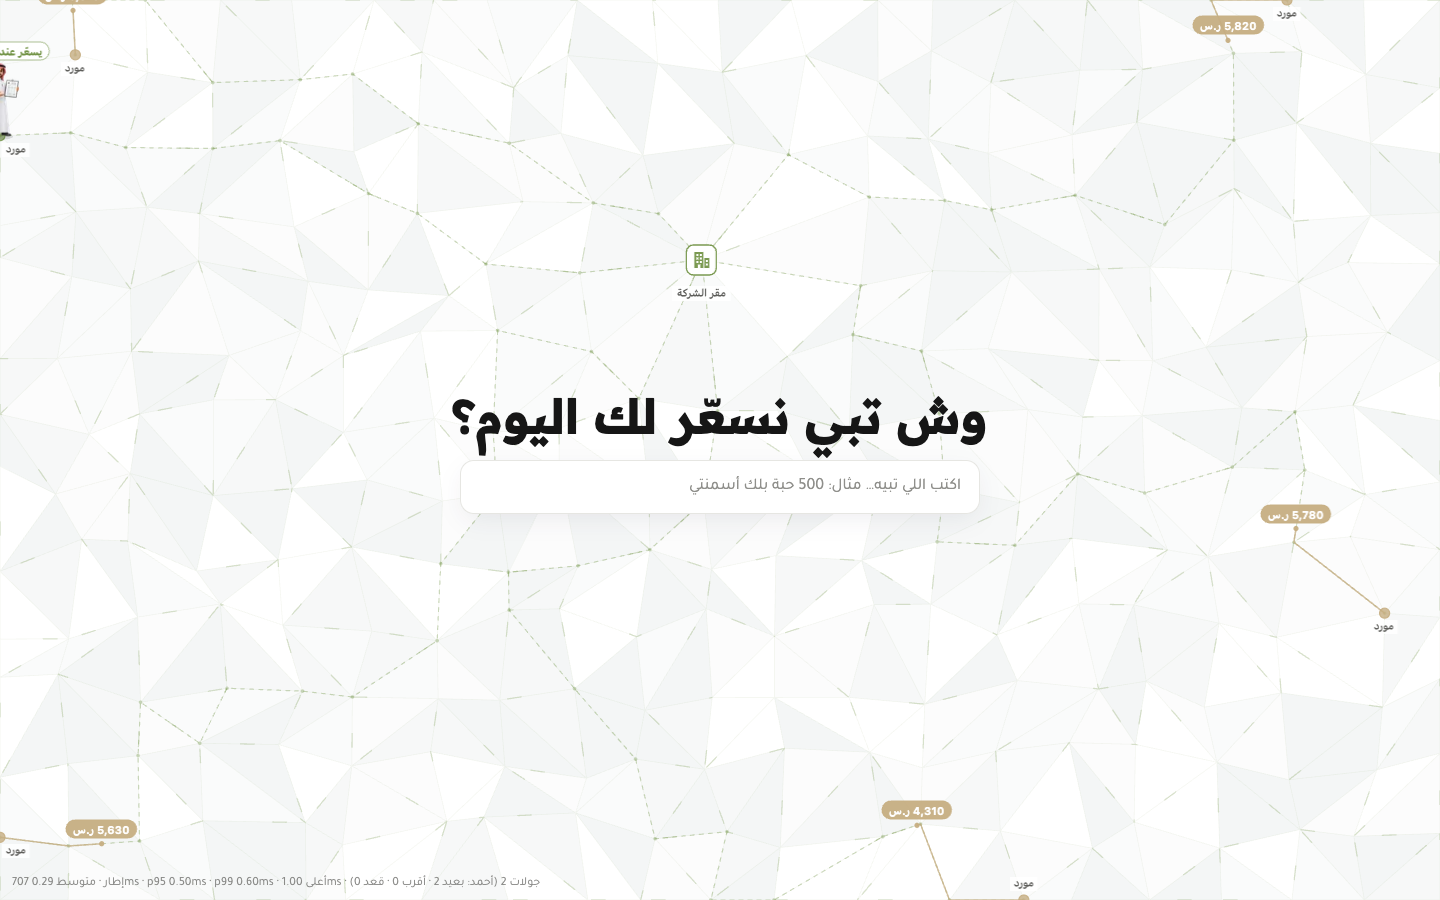
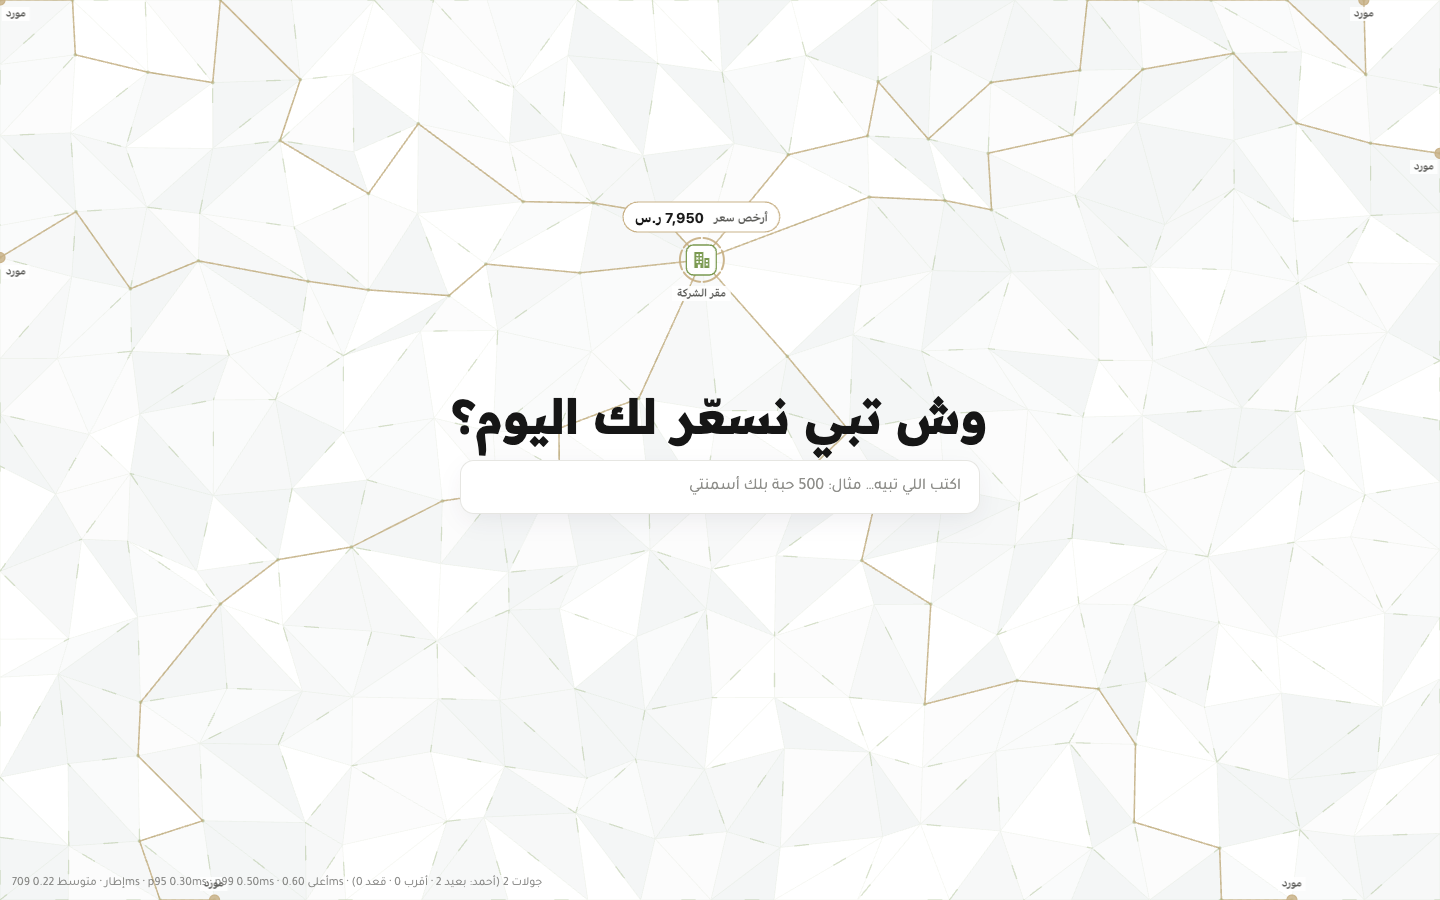
live-bg: one layer on every background — same olive→champagne pair, chips, Ahmad and sizes on light/deep/accent (only base + facets follow data-tone); one component, no tone prop; rounds on a shared wall clock (round k = ⌊t/24s⌋, seeded from k, fixed timeline) so a page change continues the same rou

diff --git a/src/live-bg/engine.ts b/src/live-bg/engine.ts
@@ -21,8 +21,8 @@ type Walker = {
   k: number; ch: number; runner: boolean; rest: boolean; target: number; path: number[]; cum: number[]; len: number
   far0: number; ang: number; start: number; arrive: number; tc: number; home: number; done: number; price: number; prof: Prof
 }
-type Plan = { walkers: Walker[]; mode: 'far' | 'near' | 'none'; rerolls: number; gen: number }
-type Round = { walkers: Walker[]; allHome: number; best: number; end: number }
+type Plan = { walkers: Walker[]; mode: 'far' | 'near' | 'none'; rerolls: number; gen: number; k: number }
+type Round = { walkers: Walker[]; allHome: number; best: number; end: number; k: number }
 
 const FONT = 'Tajawal, "Readex Pro", system-ui, sans-serif'
 const FONT_NUM = '"Readex Pro", Tajawal, system-ui, sans-serif'
@@ -79,7 +79,15 @@ function heapPop(h: Array<[number, number]>) {
   if (h.length) { h[0] = last; let i = 0; for (;;) { const l = 2 * i + 1, r = l + 1; let m = i; if (l < h.length && h[l][0] < h[m][0]) m = l; if (r < h.length && h[r][0] < h[m][0]) m = r; if (m === i) break; [h[m], h[i]] = [h[i], h[m]]; i = m } }
   return top
 }
-const shuffle = <T,>(a: T[]) => { for (let i = a.length - 1; i > 0; i--) { const j = (Math.random() * (i + 1)) | 0; [a[i], a[j]] = [a[j], a[i]] } return a }
+// Rounds are seeded from the shared clock (round number), so every screen plays the same round: `rand` is
+// re-pointed to a seeded generator while a round is planned.
+let rand: () => number = Math.random
+const shuffle = <T,>(a: T[], r: () => number = rand) => { for (let i = a.length - 1; i > 0; i--) { const j = (r() * (i + 1)) | 0; [a[i], a[j]] = [a[j], a[i]] } return a }
+/** One shared clock for every page and tab: wall time in seconds. A round is ROUND seconds; round k starts at k·ROUND. */
+export const ROUND = 24
+const ALL_HOME = 20.6 // every request (and Ahmad) is back by then; «أرخص سعر» shows until the next round
+const wall = () => (performance.timeOrigin + performance.now()) / 1000
+const seedOf = (k: number, salt: number) => (Math.imul(k | 0, 0x9e3779b1) ^ Math.imul(salt + 1, 0x85ebca6b)) | 0
 const fmt = (n: number) => n.toLocaleString('en-US') + ' ر.س'
 
 // ---------- page elements the network must keep clear of ----------
@@ -113,7 +121,7 @@ export function readObstacles(host: HTMLElement, scope: Element = document.body)
   return { boxes, title }
 }
 
-export type EngineOpts = { tone: Tone; reduced: boolean; /** where to look for page elements (default: the whole page) */ scope?: Element }
+export type EngineOpts = { reduced: boolean; /** where to look for page elements (default: the whole page) */ scope?: Element }
 export type FrameStats = { frames: number; avg: number; p95: number; p99: number; max: number; rounds: number; far: number; near: number; none: number; sync: number }
 
 export class LiveEngine {
@@ -123,7 +131,6 @@ export class LiveEngine {
   private V: Vert[] = []; private E: Edge[] = []; private adj: number[][] = []
   private FLOW: Array<{ sp: number; ph: number; rev: boolean }> = []
   private HUB = 0; private S!: Round; private S_client = 0
-  private LAST: Record<number, number> = {}
   private boxes: Box[] = []; private title: Box | null = null
   private go: RGB = [0, 0, 0]; private back: RGB = [0, 0, 0]; private base: RGB = [255, 255, 255]; private meshLine: RGB = [0, 0, 0]
   private surface: RGB = [255, 255, 255]; private ink: RGB = [0, 0, 0]; private ink2: RGB = [0, 0, 0]
@@ -183,7 +190,7 @@ export class LiveEngine {
     this.build()
     this.gen++; this.next = null
     this.chips.clear() // colours / DPR may have changed
-    if (!this.opts.reduced) { const p = this.planRound(); this.prerender(p.walkers); this.commit(p, this.simT); this.schedulePlan() }
+    if (!this.opts.reduced) { this.S = undefined as unknown as Round; this.simT = wall(); this.sync(this.simT, false) }
     this.run()
   }
 
@@ -249,7 +256,8 @@ export class LiveEngine {
     }
     this.E = E
     this.adj = V.map(() => []); E.forEach((e, i) => { this.adj[e.a].push(i); this.adj[e.b].push(i) })
-    this.FLOW = E.map((e) => ({ sp: 14 + Math.random() * 22, ph: Math.random() * (e.L + 60), rev: Math.random() < 0.5 }))
+    const fr = mulberry(29) // ambient pulse seeded like the mesh: the same on every page of the same size
+    this.FLOW = E.map((e) => ({ sp: 14 + fr() * 22, ph: fr() * (e.L + 60), rev: fr() < 0.5 }))
     // static layer: facets + the faint mesh, once
     const b = this.bctx
     const shades = FACETS.map((v) => rgba(readColor(this.host, v), 1))
@@ -268,7 +276,7 @@ export class LiveEngine {
     d[from] = 0; heapPush(h, [0, from])
     while (h.length) {
       const [x, u] = heapPop(h); if (x > d[u]) continue; if (u === to) break
-      for (const ei of adj[u]) { const e = E[ei], v = e.a === u ? e.b : e.a; if (v !== to && blocked(v)) continue; const nx = x + e.L * (0.3 + Math.random() * 2.7); if (nx < d[v]) { d[v] = nx; pv[v] = u; heapPush(h, [nx, v]) } }
+      for (const ei of adj[u]) { const e = E[ei], v = e.a === u ? e.b : e.a; if (v !== to && blocked(v)) continue; const nx = x + e.L * (0.3 + rand() * 2.7); if (nx < d[v]) { d[v] = nx; pv[v] = u; heapPush(h, [nx, v]) } }
     }
     if (!isFinite(d[to])) return null
     const path: number[] = []; let v = to; while (v !== from) { path.unshift(v); v = pv[v] } return path
@@ -282,23 +290,27 @@ export class LiveEngine {
    *              farthest point in its direction (and still never touching another request's path)
    *   3. none  — last resort: he sits the round out (counted in stats)
    */
-  private planRound(): Plan {
-    const rolls: Walker[][] = []
-    for (let i = 0; i < 8; i++) {
-      const ws = this.routes(); rolls.push(ws)
-      const r = this.pickFar(ws); if (r) return this.finish(ws, r, 'far', i)
-    }
-    for (const ws of rolls) { const r = this.pickNear(ws) || this.pickRoute(ws); if (r) return this.finish(ws, r, 'near', 8) }
-    return this.finish(rolls[rolls.length - 1], null, 'none', 8)
+  private planRound(k: number): Plan {
+    try {
+      const rolls: Walker[][] = []
+      for (let i = 0; i < 8; i++) {
+        rand = mulberry(seedOf(k, i)) // geometry: the same roll on the same layout is always the same
+        const ws = this.routes(); rolls.push(ws)
+        const r = this.pickFar(ws); if (r) return this.finish(ws, r, 'far', i, k)
+      }
+      rand = mulberry(seedOf(k, 99))
+      for (const ws of rolls) { const r = this.pickNear(ws) || this.pickRoute(ws); if (r) return this.finish(ws, r, 'near', 8, k) }
+      return this.finish(rolls[rolls.length - 1], null, 'none', 8, k)
+    } finally { rand = Math.random }
   }
 
   /** Six non-crossing paths from the head office, one per direction, each to the farthest reachable point. */
   private routes(): Walker[] {
     const { V, E, adj } = this
     const S_client = this.HUB
-    const base = 3000 + Math.random() * 9000, C = V[S_client]
+    const base = 3000 + rand() * 9000, C = V[S_client]
     const NB = (ei: number) => { const e = E[ei]; return e.a === S_client ? e.b : e.a }, ANG = (ei: number) => Math.atan2(V[NB(ei)].y - C.y, V[NB(ei)].x - C.x)
-    const all = [...adj[S_client]].sort((a, b) => ANG(a) - ANG(b)), M = Math.min(6, all.length), rot = Math.random()
+    const all = [...adj[S_client]].sort((a, b) => ANG(a) - ANG(b)), M = Math.min(6, all.length), rot = rand()
     const out = [...new Set(Array.from({ length: M }, (_, k) => all[Math.floor(((k + rot) * all.length) / M) % all.length]))], sec = Math.PI / out.length
     const owner = new Int16Array(V.length).fill(-1); owner[S_client] = 999
     const walkers: Walker[] = []
@@ -310,14 +322,13 @@ export class LiveEngine {
       for (let i = 0; i < V.length; i++) { if (owner[i] >= 0) continue; const v = V[i], an = Math.atan2(v.y - C.y, v.x - C.x), da = Math.abs(Math.atan2(Math.sin(an - ang), Math.cos(an - ang))); if (da <= sec) cand.push([Math.hypot(v.x - C.x, v.y - C.y), i]) }
       cand.sort((x, y) => y[0] - x[0])
       let plan = [nb], target = nb
-      const far = cand.filter((c) => c[0] >= (cand[0]?.[0] ?? 0) * 0.82 && c[1] !== this.LAST[k])
+      const far = cand.filter((c) => c[0] >= (cand[0]?.[0] ?? 0) * 0.82)
       for (const [, i] of [...shuffle(far), ...cand].slice(0, 16)) { if (i === nb) continue; const r = this.routeV(nb, i, (v) => owner[v] >= 0); if (r) { plan = [nb, ...r]; target = i; break } }
-      this.LAST[k] = target
       plan.forEach((v) => (owner[v] = k))
       const path = [S_client, ...plan], cum = [0]
       for (let i = 1; i < path.length; i++) cum.push(cum[i - 1] + Math.hypot(V[path[i]].x - V[path[i - 1]].x, V[path[i]].y - V[path[i - 1]].y))
-      const start = Math.random() * 0.6, arrive = start + 8.5 + Math.random() * 1.2, tc = arrive + 0.8 + Math.random() * 0.6, home = tc + 5.5 + Math.random() * 0.8
-      walkers.push({ k, ch: k % CHANNELS.length, runner: false, rest: false, target, path, cum, len: cum[cum.length - 1], far0: cand[0]?.[0] ?? 0, ang, start, arrive, tc, home, done: home, price: Math.round((base * (0.82 + Math.random() * 0.36)) / 10) * 10, prof: NO_PROF })
+      const start = 0, arrive = 9, tc = 10, home = 16 // placeholders: finish() sets the round's timeline from the clock seed
+      walkers.push({ k, ch: k % CHANNELS.length, runner: false, rest: false, target, path, cum, len: cum[cum.length - 1], far0: cand[0]?.[0] ?? 0, ang, start, arrive, tc, home, done: home, price: Math.round((base * (0.82 + rand() * 0.36)) / 10) * 10, prof: NO_PROF })
     })
     return walkers
   }
@@ -331,7 +342,7 @@ export class LiveEngine {
   private pickFar(ws: Walker[]) {
     const boxes = this.runnerBoxes(), long = Math.min(this.W, this.H) * 0.35
     const ok = ws.filter((w) => w.len > long && this.V[w.target].y > 90 && this.blockedAt(w, boxes) === Infinity)
-    return ok.length ? ok[(Math.random() * ok.length) | 0] : null
+    return ok.length ? ok[(rand() * ok.length) | 0] : null
   }
   private pickNear(ws: Walker[]) {
     const boxes = this.runnerBoxes(), C = this.V[this.HUB], ok: Array<[Walker, number]> = []
@@ -345,8 +356,8 @@ export class LiveEngine {
       }
     }
     if (!ok.length) return null
-    const [w, i] = ok[(Math.random() * ok.length) | 0]
-    w.path = w.path.slice(0, i + 1); w.cum = w.cum.slice(0, i + 1); w.len = w.cum[i]; w.target = w.path[i]; this.LAST[w.k] = w.target
+    const [w, i] = ok[(rand() * ok.length) | 0]
+    w.path = w.path.slice(0, i + 1); w.cum = w.cum.slice(0, i + 1); w.len = w.cum[i]; w.target = w.path[i]
     return w
   }
   /** A dedicated route for Ahmad in one walker's direction that steers around every element (vertex-disjoint from the others). */
@@ -377,30 +388,49 @@ export class LiveEngine {
         for (let j = 1; j < path.length; j++) cum.push(cum[j - 1] + Math.hypot(V[path[j]].x - V[path[j - 1]].x, V[path[j]].y - V[path[j - 1]].y))
         const t: Walker = { ...w, path, cum, len: cum[cum.length - 1], target: i }
         if (this.blockedAt(t, boxes) !== Infinity) continue // an edge between two clear points can still clip a corner
-        Object.assign(w, { path, cum, len: t.len, target: i }); this.LAST[w.k] = i
+        Object.assign(w, { path, cum, len: t.len, target: i })
         return w
       }
       }
     }
     return null
   }
-  private finish(walkers: Walker[], r: Walker | null, mode: Plan['mode'], rerolls: number): Plan {
+  private finish(walkers: Walker[], r: Walker | null, mode: Plan['mode'], rerolls: number, k: number): Plan {
+    // Everything the eye compares between screens comes from the round number alone: when each request leaves,
+    // arrives and returns, the prices (so «أرخص سعر» is the same), the channel order and Ahmad's timeline.
+    // Only the geometry (where the head office is, which way each path goes) follows each screen's layout.
+    const c = mulberry(seedOf(k, 1000)), base = 3000 + c() * 9000
+    walkers.forEach((w, i) => {
+      const s0 = c() * 0.6, a0 = c(), t0 = c(), h0 = c(), p0 = c()
+      w.start = s0; w.arrive = s0 + 8.5 + a0 * 1.2; w.tc = w.arrive + 0.8 + t0 * 0.6; w.home = w.tc + 5.5 + h0 * 0.8; w.done = w.home
+      w.price = Math.round((base * (0.82 + p0 * 0.36)) / 10) * 10; w.ch = i % CHANNELS.length
+    })
     if (r) {
-      r.runner = true; r.rest = r.len > Math.min(this.W, this.H) * 0.5
-      const run = Math.max(4.5, r.len / 92); r.arrive = r.start + run + (r.rest ? 2.7 : 0); r.tc = r.arrive + 1.1 + 1.8; r.home = r.tc + Math.max(4, r.len / 80); r.done = r.home + 1.5
+      // fixed timeline on every screen (speed follows the path length): run 9.5 s with a catch-breath half-way,
+      // 2.9 s at the supplier, 6 s back, 1.5 s next to the head office
+      r.runner = true; r.rest = true
+      r.arrive = r.start + 9.5; r.tc = r.arrive + 2.9; r.home = r.tc + 6; r.done = r.home + 1.5
     }
     // the other paths: one channel each, never repeated (a 6th path only when Ahmad sits out)
-    const order = shuffle(CHANNELS.map((_, i) => i)); let j = 0
+    const order = shuffle(CHANNELS.map((_, i) => i), c); let j = 0
     for (const w of walkers) if (!w.runner) w.ch = order[j++ % order.length]
-    return { walkers, mode, rerolls, gen: this.gen }
+    return { walkers, mode, rerolls, gen: this.gen, k }
   }
-  /** Start a planned round at time t (cheap: shifts times, builds Ahmad's speed profile). */
-  private commit(p: Plan, t: number) {
+  /** Start planned round k at its clock time k·ROUND (cheap: shifts times, builds Ahmad's speed profile). */
+  private commit(p: Plan) {
+    const t = p.k * ROUND
     for (const w of p.walkers) { w.start += t; w.arrive += t; w.tc += t; w.home += t; w.done += t; if (w.runner) this.profile(w) }
     this.counts.rounds++; this.counts[p.mode]++; this.counts.rerolls += p.rerolls
     this.S_client = this.HUB
-    const allHome = Math.max(...p.walkers.map((w) => w.done))
-    this.S = { walkers: p.walkers, allHome, best: Math.min(...p.walkers.map((w) => w.price)), end: allHome + 2.8 } // next round leaves right away
+    this.S = { walkers: p.walkers, allHome: t + ALL_HOME, best: Math.min(...p.walkers.map((w) => w.price)), end: t + ROUND, k: p.k }
+  }
+  /** Make the live round the one the shared clock is in (a page opened mid-round joins it where it is). */
+  private sync(t: number, inFrame: boolean) {
+    const k = Math.floor(t / ROUND)
+    if (this.S && this.S.k === k) return
+    let p = this.next; this.next = null
+    if (!p || p.gen !== this.gen || p.k !== k) { p = this.planRound(k); this.prerender(p.walkers); if (inFrame) this.counts.sync++ } // only if the idle plan did not run in time
+    this.commit(p); this.schedulePlan()
   }
   /**
    * Warm-up before the first animated frame (the first time a frame meets a new state — an image's GPU upload, a
@@ -445,15 +475,15 @@ export class LiveEngine {
   /** Plan the next round while this one plays: requestIdleCallback, setTimeout where it is missing. */
   private schedulePlan() {
     const gen = this.gen
-    const job = () => { if (this.alive && gen === this.gen && !this.next) { this.next = this.planRound(); this.prerender(this.next.walkers) } }
+    const k = (this.S?.k ?? Math.floor(wall() / ROUND)) + 1
+    const job = () => { if (this.alive && gen === this.gen && !this.next) { this.next = this.planRound(k); this.prerender(this.next.walkers) } }
     if ('requestIdleCallback' in window) window.requestIdleCallback(job, { timeout: 3000 })
     else setTimeout(job, 200)
   }
   /** Dev/QA: plan n rounds on the current layout and count how Ahmad was placed (does not touch the live round). */
   sampleRounds(n: number) {
-    const c = { far: 0, near: 0, none: 0, rerolls: 0 }, last = { ...this.LAST }
-    for (let i = 0; i < n; i++) { const p = this.planRound(); c[p.mode]++; c.rerolls += p.rerolls }
-    this.LAST = last
+    const c = { far: 0, near: 0, none: 0, rerolls: 0 }, k0 = Math.floor(wall() / ROUND)
+    for (let i = 0; i < n; i++) { const p = this.planRound(k0 + i); c[p.mode]++; c.rerolls += p.rerolls }
     return c
   }
 
@@ -697,13 +727,9 @@ export class LiveEngine {
 
   // ---------- clock: pauses with the page / off-screen; reduced motion = static mesh only ----------
   private loop = (now: number) => {
-    const dt = Math.min(0.05, (now - this.last) / 1000); this.last = now; this.simT += dt
+    this.last = now; this.simT = (performance.timeOrigin + now) / 1000 // the shared clock, not time since this page loaded
     const t0 = performance.now()
-    if (this.simT > this.S.end) {
-      let p = this.next; this.next = null
-      if (!p || p.gen !== this.gen) { p = this.planRound(); this.counts.sync++ } // only if the idle plan did not run in time
-      this.commit(p, this.simT); this.schedulePlan()
-    }
+    if (this.simT >= this.S.end) this.sync(this.simT, true)
     this.draw(this.simT)
     this.times[this.nTimes++ % this.times.length] = performance.now() - t0
     this.raf = requestAnimationFrame(this.loop)
@@ -712,6 +738,9 @@ export class LiveEngine {
     cancelAnimationFrame(this.raf); this.raf = 0
     if (!this.alive || this.opts.reduced) { this.ctx.clearRect(0, 0, this.W, this.H); return }
     if (!this.warmed) { this.warm(); return } // starts the loop when done
-    if (!document.hidden && this.onScreen) { this.last = performance.now(); this.raf = requestAnimationFrame(this.loop) }
+    if (!document.hidden && this.onScreen) {
+      this.simT = wall(); this.sync(this.simT, false) // back from a hidden tab: join the current round outside a frame
+      this.last = performance.now(); this.raf = requestAnimationFrame(this.loop)
+    }
   }
 }

diff --git a/src/live-bg/LiveBackgroundCanvas.tsx b/src/live-bg/LiveBackgroundCanvas.tsx
@@ -1,9 +1,8 @@
 import { useEffect, useRef } from 'react'
-import { LiveEngine, type Tone } from './engine'
+import { LiveEngine } from './engine'
 import './live-bg.css'
 
 type Props = {
-  tone?: Tone
   /** false = fill the nearest positioned parent instead of the viewport (dev page). */
   fixed?: boolean
   /** Dev only: force reduced motion regardless of the OS setting. */
@@ -13,7 +12,11 @@ type Props = {
   scope?: Element | null
 }
 
-export default function LiveBackgroundCanvas({ tone = 'light', fixed = true, reducedMotion, onEngine, scope }: Props) {
+/**
+ * The one living-background layer, used unchanged on every screen and section. It has no tone: the background
+ * under it (base + facets) comes from the nearest [data-tone] around it; paths, chips, Ahmad and colours are the same.
+ */
+export default function LiveBackgroundCanvas({ fixed = true, reducedMotion, onEngine, scope }: Props) {
   const host = useRef<HTMLDivElement>(null)
   const bg = useRef<HTMLCanvasElement>(null)
   const fx = useRef<HTMLCanvasElement>(null)
@@ -22,7 +25,7 @@ export default function LiveBackgroundCanvas({ tone = 'light', fixed = true, red
   useEffect(() => {
     if (!host.current || !bg.current || !fx.current) return
     const mq = window.matchMedia('(prefers-reduced-motion: reduce)')
-    const e = new LiveEngine(host.current, bg.current, fx.current, { tone, reduced: reducedMotion ?? mq.matches, scope: scope ?? undefined })
+    const e = new LiveEngine(host.current, bg.current, fx.current, { reduced: reducedMotion ?? mq.matches, scope: scope ?? undefined })
     engine.current = e
     onEngine?.(e)
     // QA hook in dev builds only: window.__liveBg.app.stats() / .simulate(100)
@@ -35,9 +38,9 @@ export default function LiveBackgroundCanvas({ tone = 'light', fixed = true, red
       if (fixed) document.documentElement.classList.remove('has-live-bg')
       e.destroy(); engine.current = null; onEngine?.(null)
     }
-    // tone/fixed rebuild the engine; reducedMotion is applied in place below
+    // fixed/scope rebuild the engine; reducedMotion is applied in place below
     // eslint-disable-next-line react-hooks/exhaustive-deps
-  }, [tone, fixed, scope])
+  }, [fixed, scope])
 
   useEffect(() => {
     const e = engine.current
@@ -45,7 +48,7 @@ export default function LiveBackgroundCanvas({ tone = 'light', fixed = true, red
   }, [reducedMotion])
 
   return (
-    <div ref={host} className={fixed ? 'live-bg' : 'live-bg live-bg--local'} data-tone={tone === 'light' ? undefined : tone} aria-hidden="true">
+    <div ref={host} className={fixed ? 'live-bg' : 'live-bg live-bg--local'} aria-hidden="true">
       <canvas ref={bg} />
       <canvas ref={fx} />
     </div>

diff --git a/src/pages/landing/LiveSlots.tsx b/src/pages/landing/LiveSlots.tsx
@@ -1,9 +1,9 @@
 import { lazy, Suspense, useEffect, useState } from 'react'
 import { createPortal } from 'react-dom'
-import type { Tone } from '../../live-bg/engine'
 
 /*
- * Mounts the living background into every `data-live-bg="deep|accent|light"` slot of the page
+ * Mounts the one living-background layer into every `data-live-bg` slot of the page (the slot's section
+ * sets the background through its data-tone; the layer itself is the same everywhere)
  * (docs/qa/requests.md B5). Only slots near the viewport get an engine, so a long page runs one or
  * two canvases at a time; the engine itself pauses off-screen and follows prefers-reduced-motion.
  * The canvas chunk is requested after the hero has painted (lazy), so it never competes with LCP.
@@ -18,9 +18,8 @@ function Slot({ el }: { el: HTMLElement }) {
     return () => io.disconnect()
   }, [el])
   if (!near) return null
-  const tone = (el.dataset.liveBg as Tone) || 'light'
   // obstacles: the section that holds the slot (its text and cards stay clear of the network)
-  return createPortal(<Suspense fallback={null}><Canvas tone={tone} fixed={false} scope={el.parentElement ?? undefined} /></Suspense>, el)
+  return createPortal(<Suspense fallback={null}><Canvas fixed={false} scope={el.parentElement ?? undefined} /></Suspense>, el)
 }
 
 export default function LiveSlots({ root }: { root: HTMLElement | null }) {

diff --git a/src/live-bg/DevPage.tsx b/src/live-bg/DevPage.tsx
@@ -24,7 +24,7 @@ function Stage({ tone, full, reduced }: { tone: Tone; full: boolean; reduced: bo
     <section ref={setScope} className="flex flex-col gap-2">
       {!full && <p className="text-[13px] text-ink-2">{TONES.find((t) => t[0] === tone)?.[1]} — <span dir="ltr" data-stat>{stat}</span></p>}
       <div data-tone={tone === 'light' ? undefined : tone} className={full ? 'relative h-screen w-full overflow-hidden' : 'relative aspect-[390/600] w-full overflow-hidden rounded-[20px] border border-line sm:aspect-[1440/800]'}>
-        {scope && <LiveBackgroundCanvas scope={scope} tone={tone} fixed={false} reducedMotion={reduced} onEngine={(e) => { engine.current = e; (window as unknown as { __liveBg?: Record<string, unknown> }).__liveBg = { ...(window as unknown as { __liveBg?: Record<string, unknown> }).__liveBg, [tone]: e } }} />}
+        {scope && <LiveBackgroundCanvas scope={scope} fixed={false} reducedMotion={reduced} onEngine={(e) => { engine.current = e; (window as unknown as { __liveBg?: Record<string, unknown> }).__liveBg = { ...(window as unknown as { __liveBg?: Record<string, unknown> }).__liveBg, [tone]: e } }} />}
         {cards ? (
           <div className="pointer-events-none absolute inset-0 flex flex-col items-end gap-6 p-8">
             <h1 className="font-display text-[32px] leading-[48px] font-bold text-ink">طلبات التسعير</h1>

diff --git a/src/styles/tokens.css b/src/styles/tokens.css
@@ -133,8 +133,9 @@
   /* ── Living background (Living BG collection + approved defaults) ── */
   --live-mesh-line: #8a94a0;
   --live-base: #ffffff;
-  --live-go: #6b8e3d;     /* زيتوني  — Light default: زيتوني ← شامبين */
-  --live-back: #c6ae82;   /* شامبين */
+  /* One layer on every background: same paths, chips, Ahmad and colours (owner, 2026-10-08) — only the base and facets below change per tone */
+  --live-go: #6b8e3d;     /* زيتوني — الطلب الرايح */
+  --live-back: #c6ae82;   /* شامبين — السعر الراجع */
   /* Facet shades — five per tone, as in the reference prototype (TONES.*.shades) */
   --live-facet-1: #ffffff;
   --live-facet-2: #fcfcfc;
@@ -146,8 +147,6 @@
 /* Section tones — hero and dark bands. Not a theme: they only re-point surface/text. */
 [data-tone="deep"] {
   --live-base: #121212;
-  --live-go: #62bfa9;     /* نعناعي هادئ */
-  --live-back: #c6ae82;   /* شامبين */
   --live-facet-1: #121212;
   --live-facet-2: #141414;
   --live-facet-3: #161616;
@@ -159,8 +158,6 @@
 }
 [data-tone="accent"] {
   --live-base: #3ddc97;
-  --live-go: #3a4047;     /* فحمي */
-  --live-back: #ffffff;   /* أبيض */
   --live-facet-1: #3ddc97;
   --live-facet-2: #42dd9a;
   --live-facet-3: #48df9e;

diff --git a/src/live-bg/index.tsx b/src/live-bg/index.tsx
@@ -1,11 +1,10 @@
 import { lazy, Suspense, useEffect, useState } from 'react'
-import type { Tone } from './engine'
 
 // The canvas engine is its own chunk and is only requested after the page has painted once.
 const Canvas = lazy(() => import('./LiveBackgroundCanvas'))
 
 // Dev preview of all three tones: /live-bg (mounted from main.tsx, not part of the build).
-export default function LiveBackground({ tone = 'light' }: { tone?: Tone }) {
+export default function LiveBackground() {
   const [painted, setPainted] = useState(false)
   useEffect(() => {
     let b = 0
@@ -13,5 +12,5 @@ export default function LiveBackground({ tone = 'light' }: { tone?: Tone }) {
     return () => { cancelAnimationFrame(a); cancelAnimationFrame(b) }
   }, [])
   if (!painted) return null
-  return <Suspense fallback={null}><Canvas tone={tone} /></Suspense>
+  return <Suspense fallback={null}><Canvas /></Suspense>
 }
